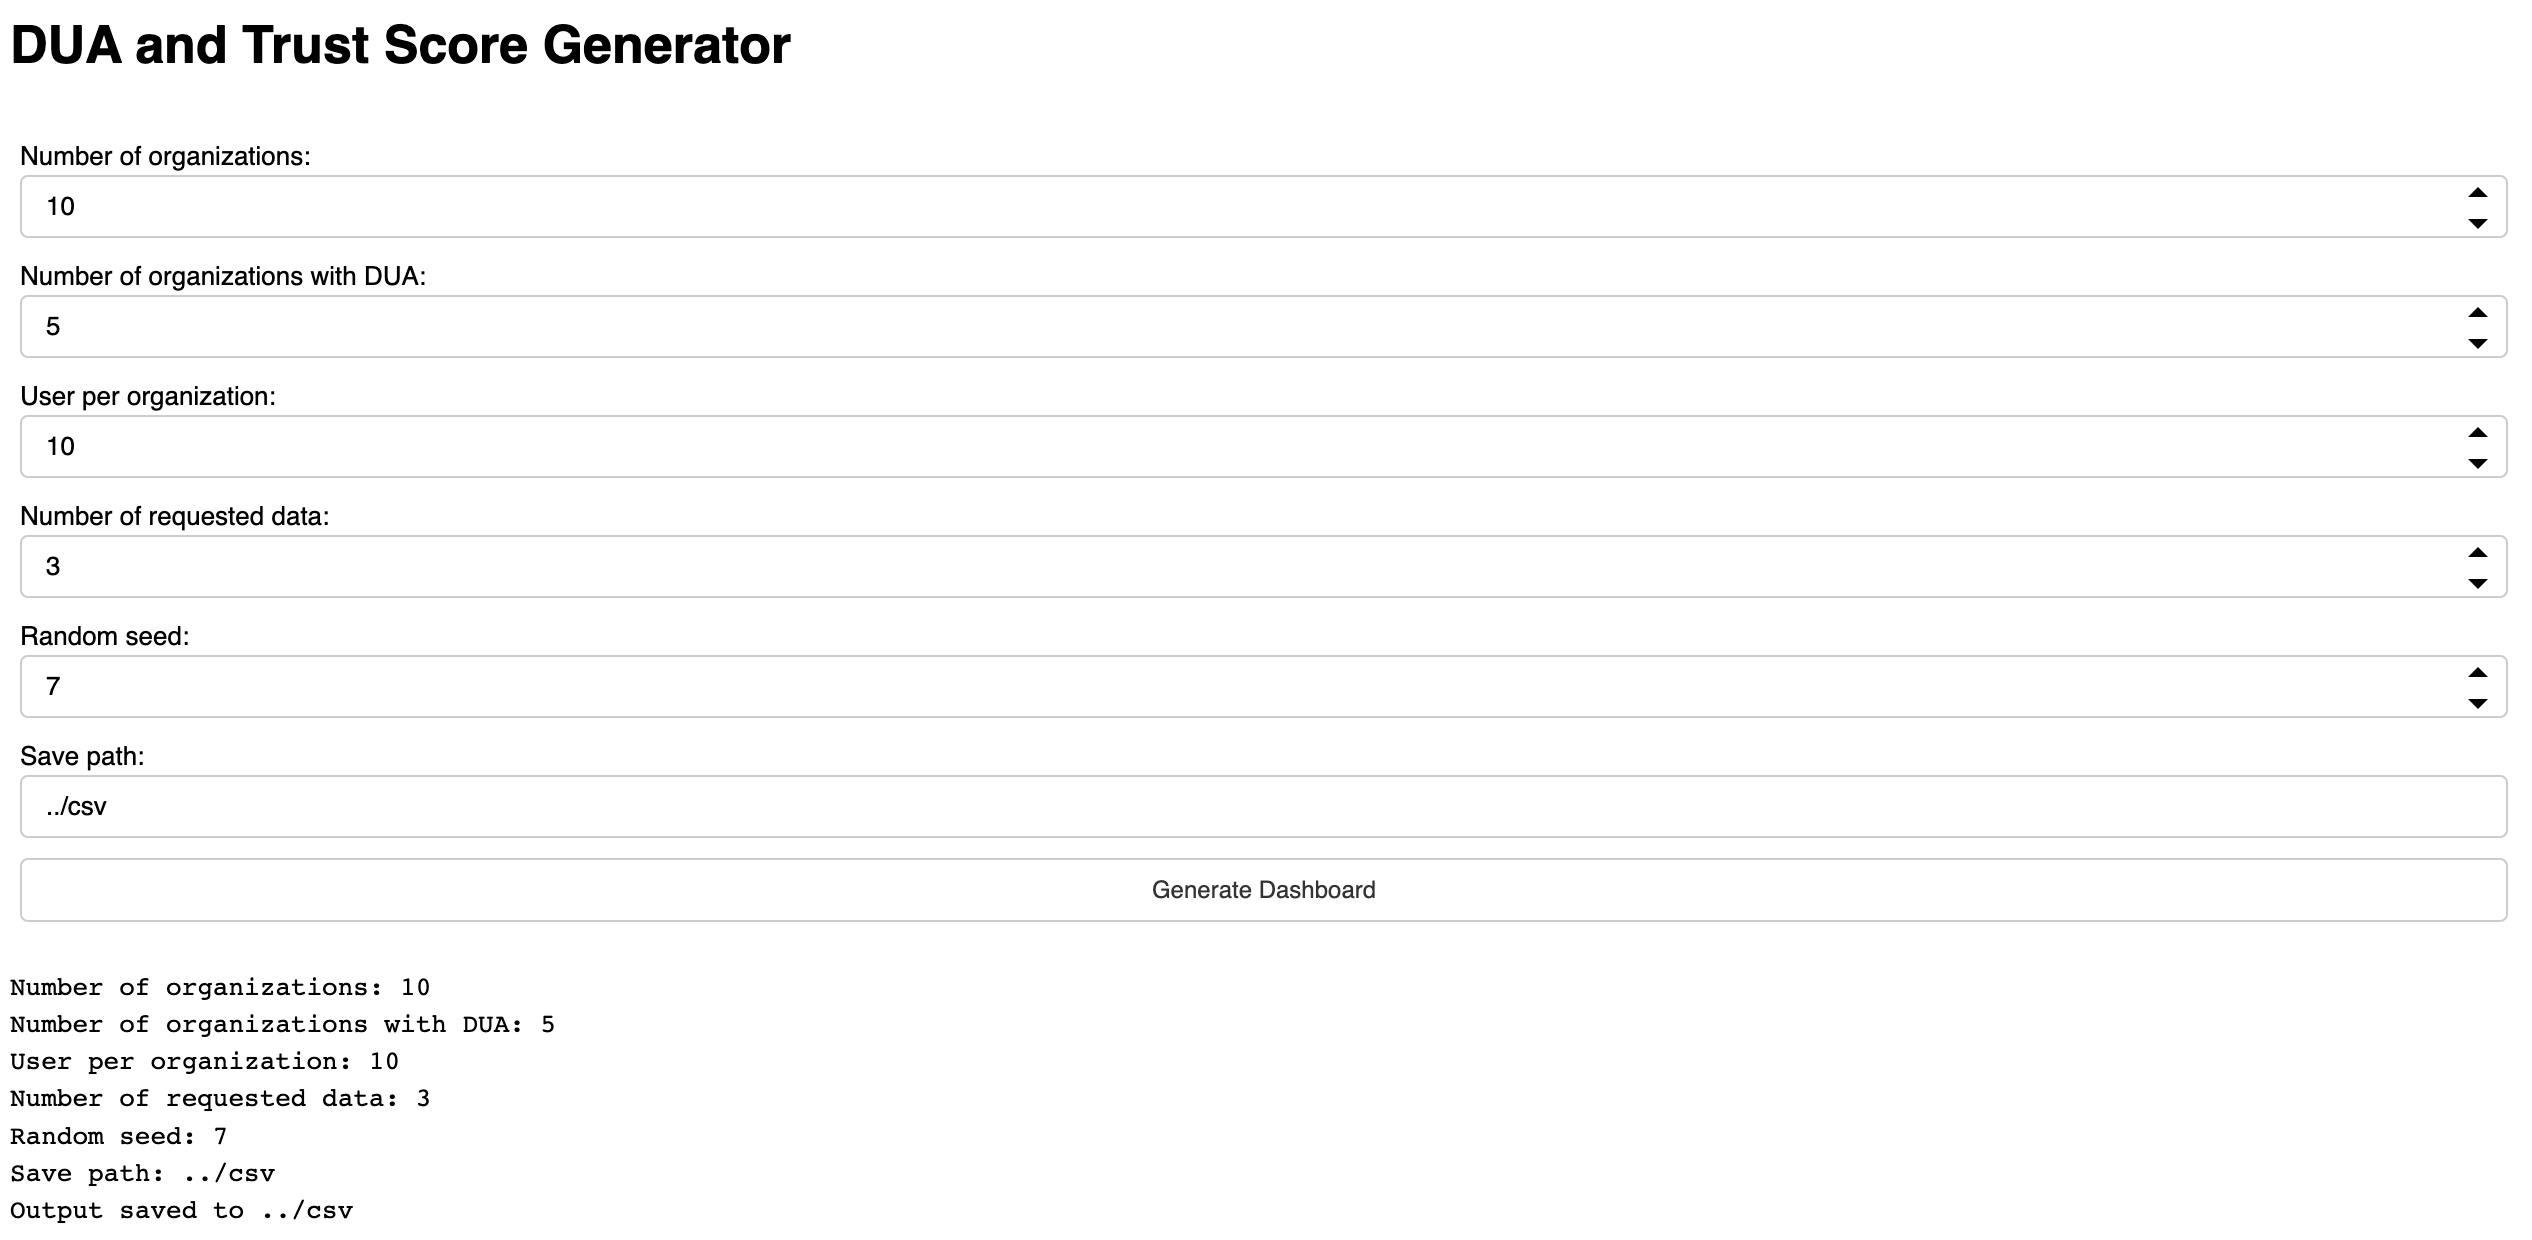
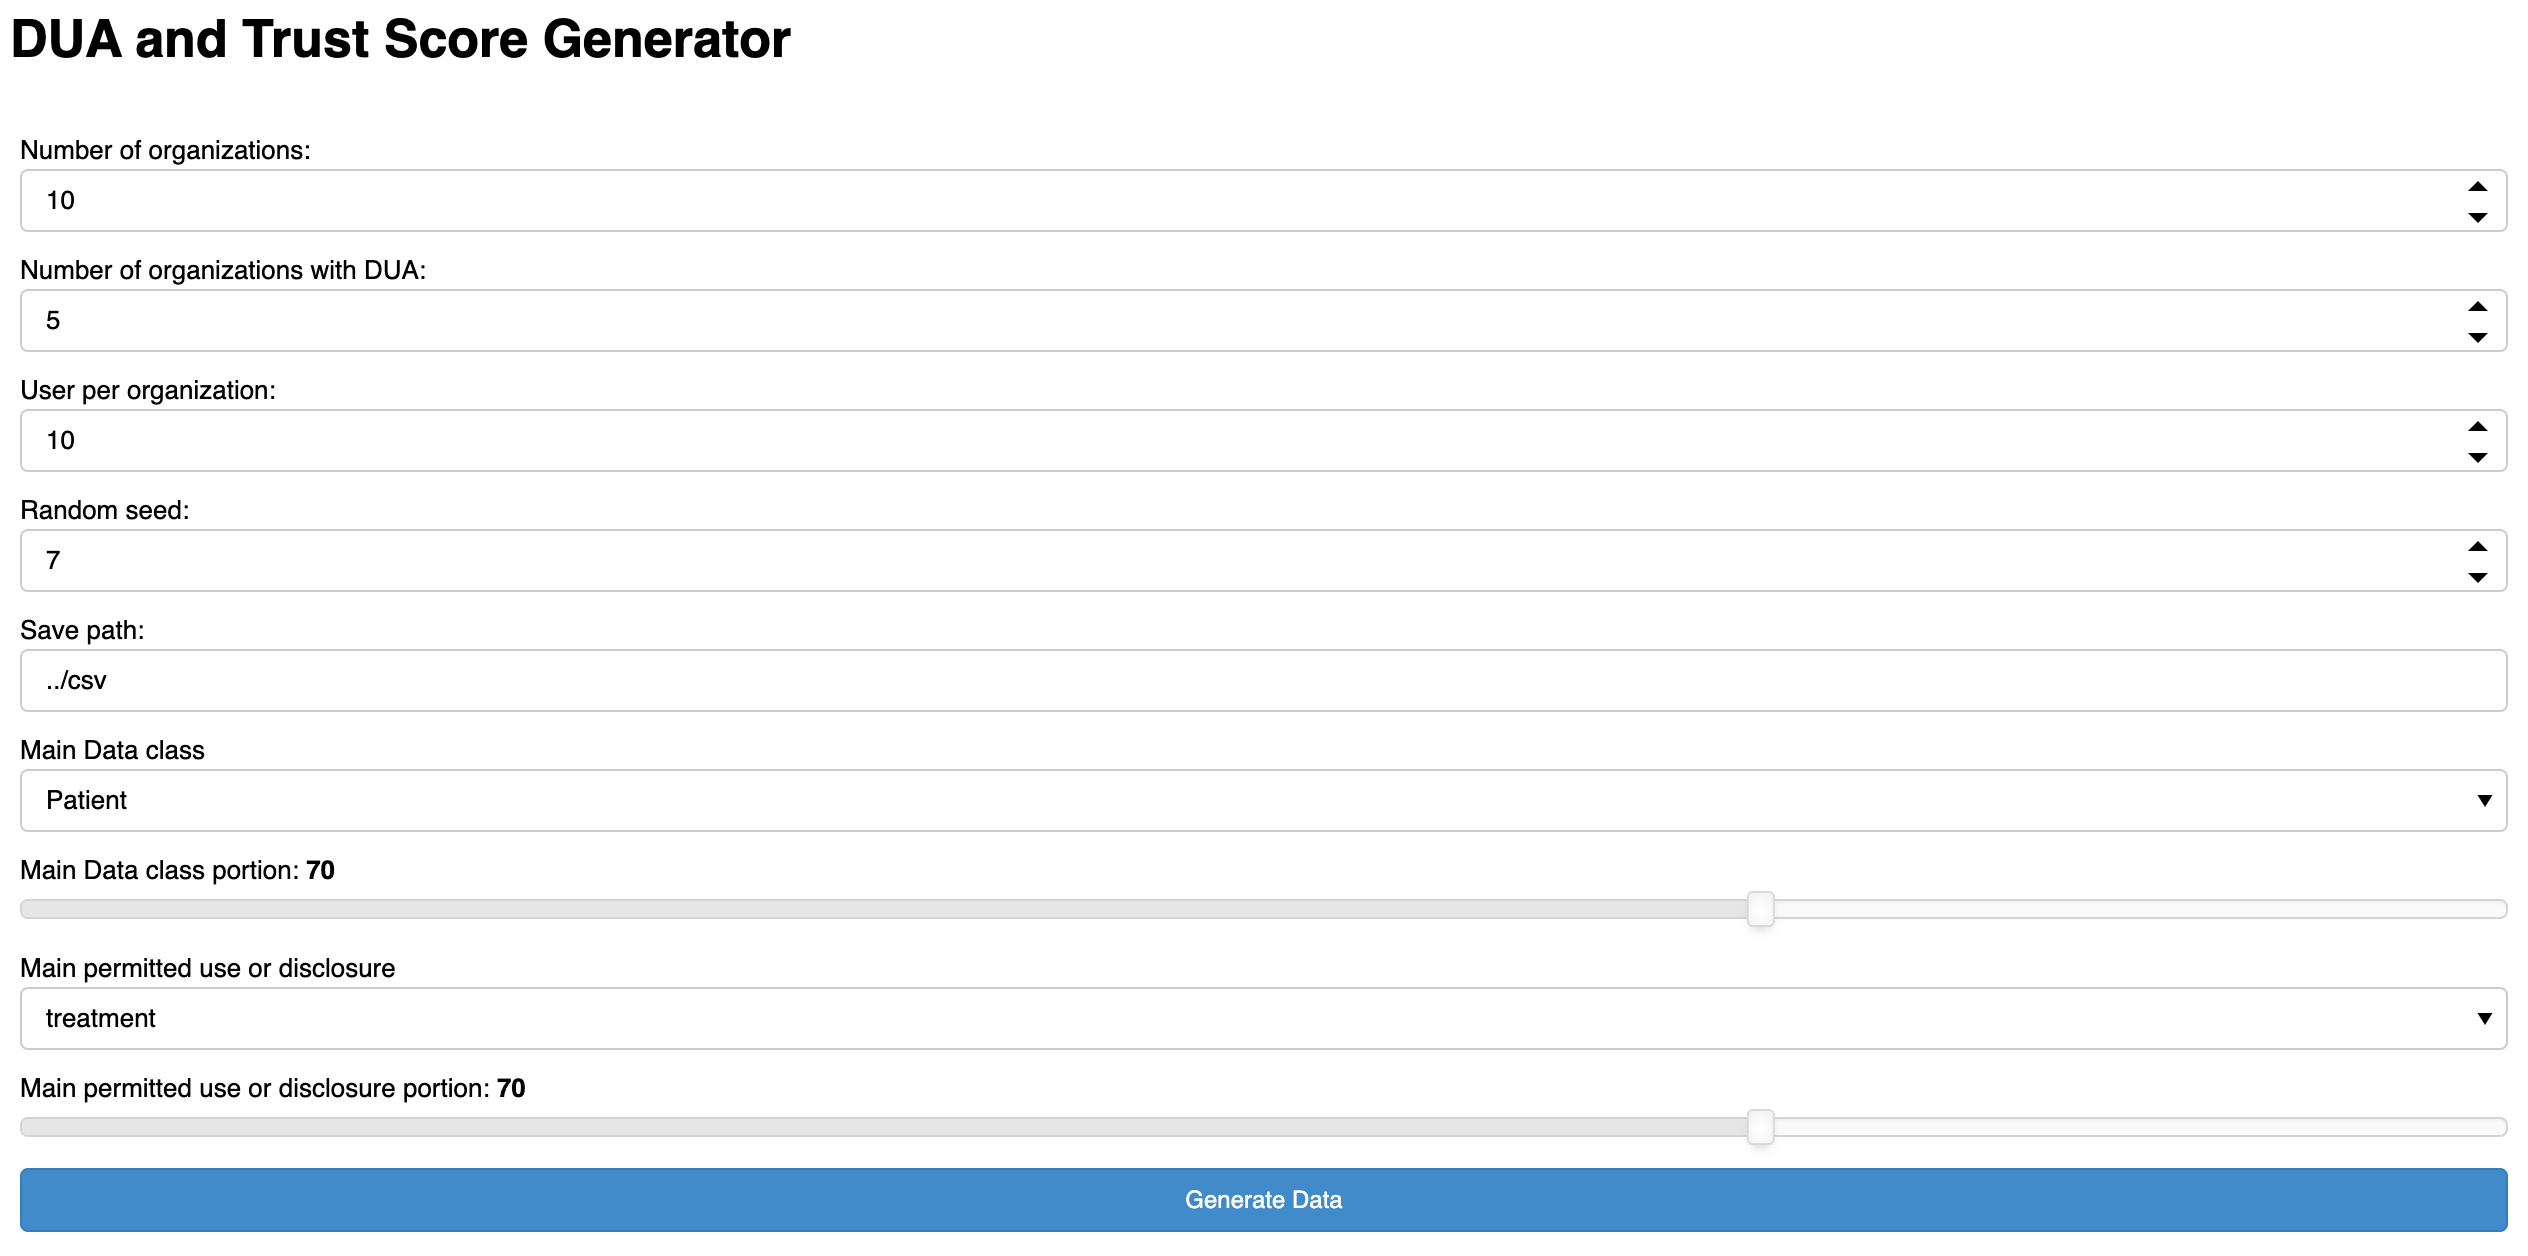
Update readme

diff --git a/gui/trustscore_dua_generator.py b/gui/trustscore_dua_generator.py
@@ -103,7 +103,9 @@ def main():
     save_path_input = pn.widgets.TextInput(name="Save path:", value="../csv")
 
     # Main data class selection
-    dataclass_select = pn.widgets.Select(name="Main Data class", options=DATA_CLASSES)
+    dataclass_select = pn.widgets.Select(
+        name="Main Data class", options=DATA_CLASSES, value="Patient"
+    )
 
     # Main data class portion
     dataclass_portion_slider = pn.widgets.IntSlider(
@@ -121,7 +123,7 @@ def main():
     )
 
     # Create the button widget and callback function
-    button = pn.widgets.Button(name="Generate Dashboard")
+    button = pn.widgets.Button(name="Generate Data", button_type="primary")
     output_text = pn.pane.Str()
 
     def button_callback(event):
